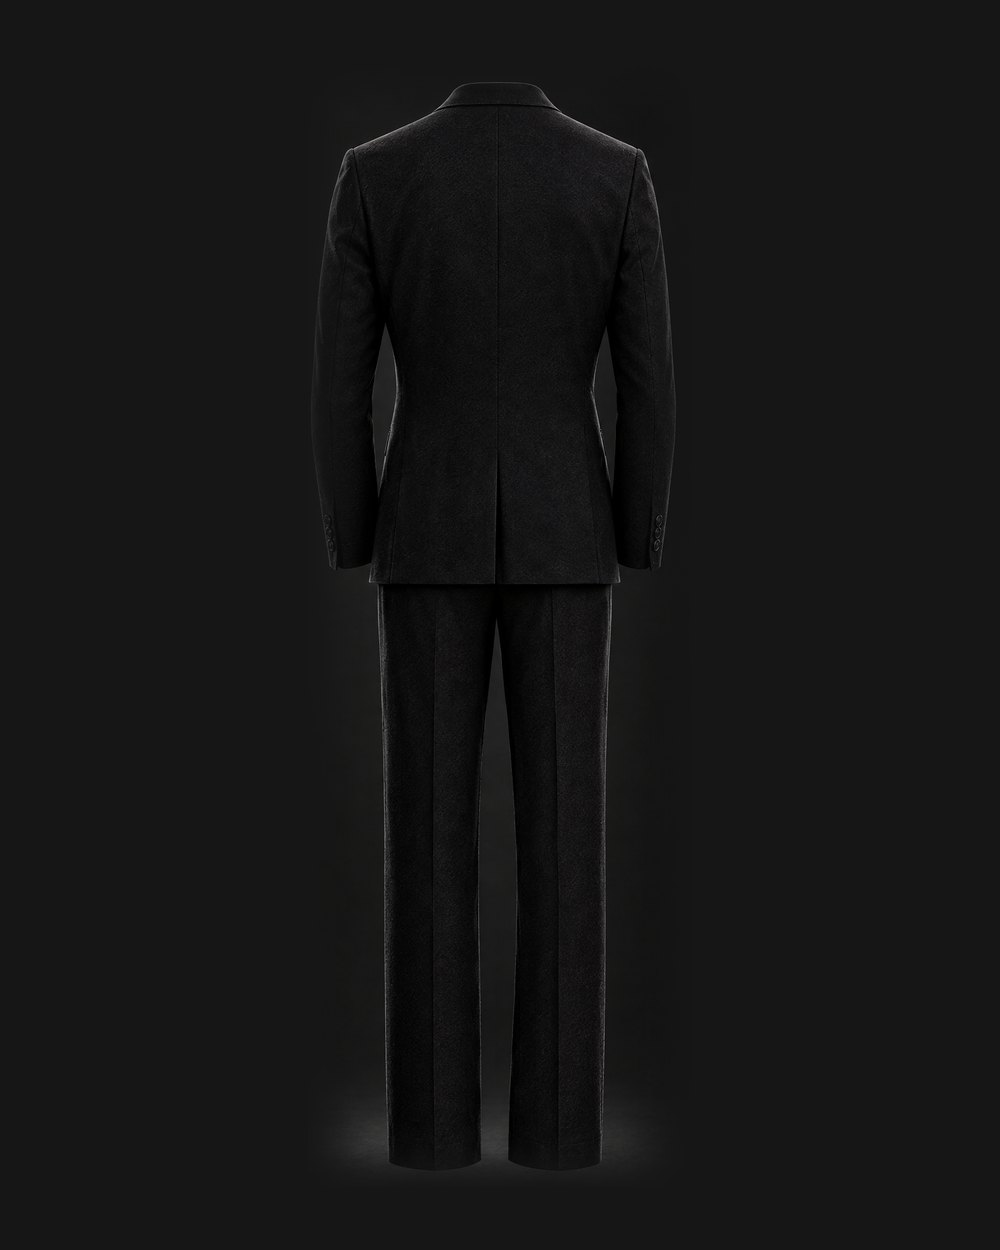
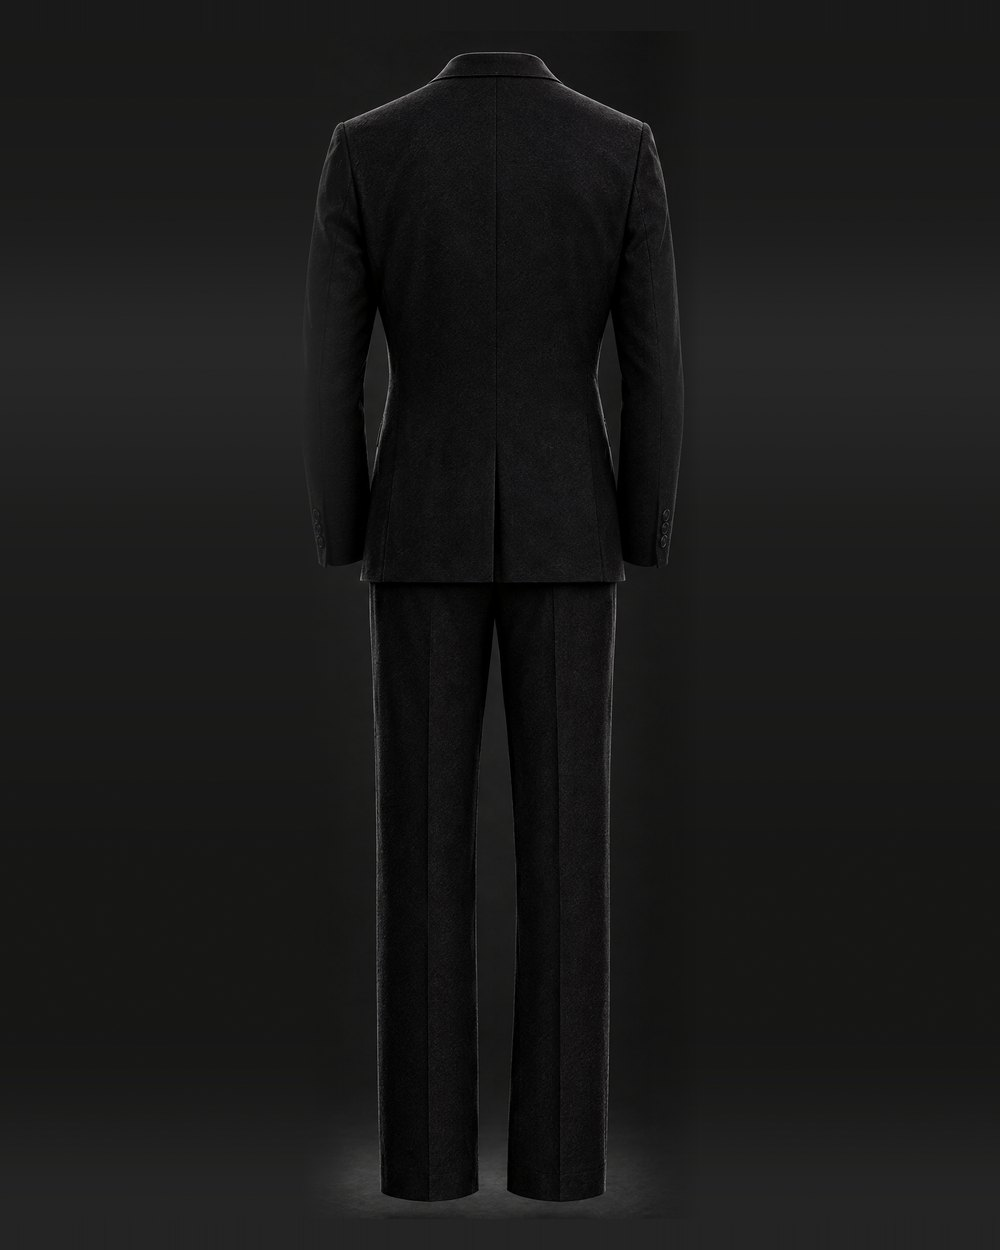
Fix suit product shots: larger suit, seamless background
Suit front/back now fill the card height, with side margins rebuilt from
the photo's own edges instead of a flat fill, so no box shows.

diff --git a/index.html b/index.html
@@ -10,7 +10,7 @@
 <link rel="preconnect" href="https://fonts.googleapis.com">
 <link rel="preconnect" href="https://fonts.gstatic.com" crossorigin>
 <link href="https://fonts.googleapis.com/css2?family=Inter:wght@400;500;600;700&family=Cormorant+Garamond:ital,wght@1,400;1,500&display=swap" rel="stylesheet">
-<link rel="stylesheet" href="css/styles.css?v=5">
+<link rel="stylesheet" href="css/styles.css?v=6">
 </head>
 <body>
 <a class="skip-link" href="#main">Skip to content</a>
@@ -118,8 +118,8 @@
     </article>
     <article class="product-card" data-rise>
       <a href="product.html?p=suit" class="product-media" aria-label="UMBRA Suit">
-        <img src="assets/suit-front.jpg" alt="UMBRA Suit, front: midnight-black three-piece with peak lapels edged in graphite silk" class="img-front">
-        <img src="assets/suit-back.jpg" alt="" class="img-back" loading="lazy">
+        <img src="assets/suit-front.jpg?v=2" alt="UMBRA Suit, front: midnight-black three-piece with peak lapels edged in graphite silk" class="img-front">
+        <img src="assets/suit-back.jpg?v=2" alt="" class="img-back" loading="lazy">
         <span class="product-tag">Three-piece</span>
       </a>
       <div class="product-info">
@@ -244,11 +244,11 @@
 <script src="https://cdnjs.cloudflare.com/ajax/libs/gsap/3.13.0/gsap.min.js"></script>
 <script src="https://cdnjs.cloudflare.com/ajax/libs/gsap/3.13.0/ScrollTrigger.min.js"></script>
 <script src="https://cdnjs.cloudflare.com/ajax/libs/gsap/3.13.0/SplitText.min.js"></script>
-<script src="js/products.js?v=5"></script>
-<script src="js/shop-config.js?v=5"></script>
-<script src="js/shopify.js?v=5"></script>
-<script src="js/paypal.js?v=5"></script>
-<script src="js/cart.js?v=5"></script>
-<script src="js/main.js?v=5"></script>
+<script src="js/products.js?v=6"></script>
+<script src="js/shop-config.js?v=6"></script>
+<script src="js/shopify.js?v=6"></script>
+<script src="js/paypal.js?v=6"></script>
+<script src="js/cart.js?v=6"></script>
+<script src="js/main.js?v=6"></script>
 </body>
 </html>

diff --git a/product.html b/product.html
@@ -10,7 +10,7 @@
 <link rel="preconnect" href="https://fonts.googleapis.com">
 <link rel="preconnect" href="https://fonts.gstatic.com" crossorigin>
 <link href="https://fonts.googleapis.com/css2?family=Inter:wght@400;500;600;700&family=Cormorant+Garamond:ital,wght@1,400;1,500&display=swap" rel="stylesheet">
-<link rel="stylesheet" href="css/styles.css?v=5">
+<link rel="stylesheet" href="css/styles.css?v=6">
 </head>
 <body class="page-product">
 <a class="skip-link" href="#main">Skip to content</a>
@@ -101,11 +101,11 @@
   </div>
 </footer>
 
-<script src="js/products.js?v=5"></script>
-<script src="js/shop-config.js?v=5"></script>
-<script src="js/shopify.js?v=5"></script>
-<script src="js/paypal.js?v=5"></script>
-<script src="js/cart.js?v=5"></script>
-<script src="js/product.js?v=5"></script>
+<script src="js/products.js?v=6"></script>
+<script src="js/shop-config.js?v=6"></script>
+<script src="js/shopify.js?v=6"></script>
+<script src="js/paypal.js?v=6"></script>
+<script src="js/cart.js?v=6"></script>
+<script src="js/product.js?v=6"></script>
 </body>
 </html>

diff --git a/thank-you.html b/thank-you.html
@@ -10,7 +10,7 @@
 <link rel="preconnect" href="https://fonts.googleapis.com">
 <link rel="preconnect" href="https://fonts.gstatic.com" crossorigin>
 <link href="https://fonts.googleapis.com/css2?family=Inter:wght@400;500;600;700&family=Cormorant+Garamond:ital,wght@1,400;1,500&display=swap" rel="stylesheet">
-<link rel="stylesheet" href="css/styles.css?v=5">
+<link rel="stylesheet" href="css/styles.css?v=6">
 </head>
 <body class="page-product">
 <a class="skip-link" href="#main">Skip to content</a>
@@ -42,9 +42,9 @@
   </div>
 </footer>
 
-<script src="js/products.js?v=5"></script>
-<script src="js/shop-config.js?v=5"></script>
-<script src="js/cart.js?v=5"></script>
+<script src="js/products.js?v=6"></script>
+<script src="js/shop-config.js?v=6"></script>
+<script src="js/cart.js?v=6"></script>
 <script>
   // Paid: empty the bag and show the order reference PayPal sent back
   (function () {

diff --git a/js/products.js b/js/products.js
@@ -85,8 +85,8 @@ window.UMBRA_PRODUCTS = {
     soldOut: [],
     fit: "Tailored modern fit with a sculpted waist and structured shoulders. EU jacket sizes; trousers are sized to match and can be hemmed to length.",
     images: [
-      { src: "assets/suit-front.jpg", alt: "The Suit, front, with the waistcoat inside the jacket" },
-      { src: "assets/suit-back.jpg", alt: "The Suit, back" },
+      { src: "assets/suit-front.jpg?v=2", alt: "The Suit, front, with the waistcoat inside the jacket" },
+      { src: "assets/suit-back.jpg?v=2", alt: "The Suit, back" },
       { src: "assets/suit-model.jpg", alt: "The Suit worn with a white shirt and black tie" },
       { src: "assets/suit-ghost.jpg", alt: "The Suit under a single spotlight" },
       { src: "assets/suit-lapel.jpg", alt: "Peak lapel with the graphite silk edge line" },

diff --git a/tools/crop_assets.py b/tools/crop_assets.py
@@ -40,6 +40,41 @@ def card(board, box, name, size=(1000, 1250), pad=0.08):
     save(canvas, name)
 
 
+def tall_card(src, box, name, size=(1000, 1250), pad=0.025):
+    """For tall garments (the suit): scale the region to nearly the full card
+    height and rebuild the side margins from the region's own edge columns,
+    row by row, so the studio gradient and glow continue with no visible box."""
+    region = src.crop(box)
+    h = round(size[1] * (1 - pad * 2))
+    w = round(region.width * h / region.height)
+    region = region.resize((w, h), Image.LANCZOS)
+    edge = 10
+    left = region.crop((0, 0, edge, h)).resize((1, h), Image.BOX)
+    right = region.crop((w - edge, 0, w, h)).resize((1, h), Image.BOX)
+    sides = Image.blend(left, right, 0.5)
+    # smooth the column vertically so per-row noise doesn't turn into streaks
+    sides = sides.resize((8, h)).filter(ImageFilter.GaussianBlur(40)).resize((1, h), Image.BOX)
+    canvas = sides.resize((size[0], h), Image.BILINEAR)
+    # a touch of fine grain so the rebuilt margins match the photo's texture
+    grain = Image.effect_noise((size[0], h), 6).convert("RGB")
+    canvas = Image.blend(canvas, Image.composite(canvas, grain, Image.new("L", (size[0], h), 245)), 1.0)
+    # extend the first/last rows into the top and bottom margins
+    full = Image.new("RGB", size)
+    top = (size[1] - h) // 2
+    full.paste(canvas.crop((0, 0, size[0], 1)).resize((size[0], top)), (0, 0))
+    full.paste(canvas, (0, top))
+    full.paste(canvas.crop((0, h - 1, size[0], h)).resize((size[0], size[1] - top - h)), (0, top + h))
+    # feather only the left/right edges of the garment region into it
+    mask = Image.new("L", (w, h), 255)
+    feather = max(20, w // 7)
+    for i in range(feather):
+        a = round(255 * i / feather)
+        mask.paste(a, (i, 0, i + 1, h))
+        mask.paste(a, (w - 1 - i, 0, w - i, h))
+    full.paste(region, ((size[0] - w) // 2, top), mask)
+    save(full, name)
+
+
 # Product cards (front + back of each piece)
 card(hoodie, (20, 360, 1030, 1560), "hoodie-front.jpg")
 card(hoodie, (1018, 360, 2028, 1560), "hoodie-back.jpg")
@@ -60,8 +95,8 @@ save(pants.crop((1418, 1238, 2048, 1625)), "note-hardware.jpg")
 # The Suit: front/back from the board, details from its close-up column,
 # plus the floating suit and the campaign shot as wide gallery images
 suit = Image.open(SRC / "suit-board.png").convert("RGB")
-card(suit, (20, 90, 760, 2010), "suit-front.jpg", pad=0.05)
-card(suit, (740, 90, 1395, 2010), "suit-back.jpg", pad=0.05)
+tall_card(suit, (20, 90, 760, 2010), "suit-front.jpg")
+tall_card(suit, (745, 90, 1395, 2010), "suit-back.jpg")
 save(suit.crop((1412, 0, 2048, 419)).resize((1000, 659), Image.LANCZOS), "suit-lapel.jpg")
 save(suit.crop((1412, 428, 2048, 801)).resize((1000, 587), Image.LANCZOS), "suit-button.jpg")
 save(suit.crop((1412, 810, 2048, 1201)).resize((1000, 615), Image.LANCZOS), "suit-waistcoat.jpg")
